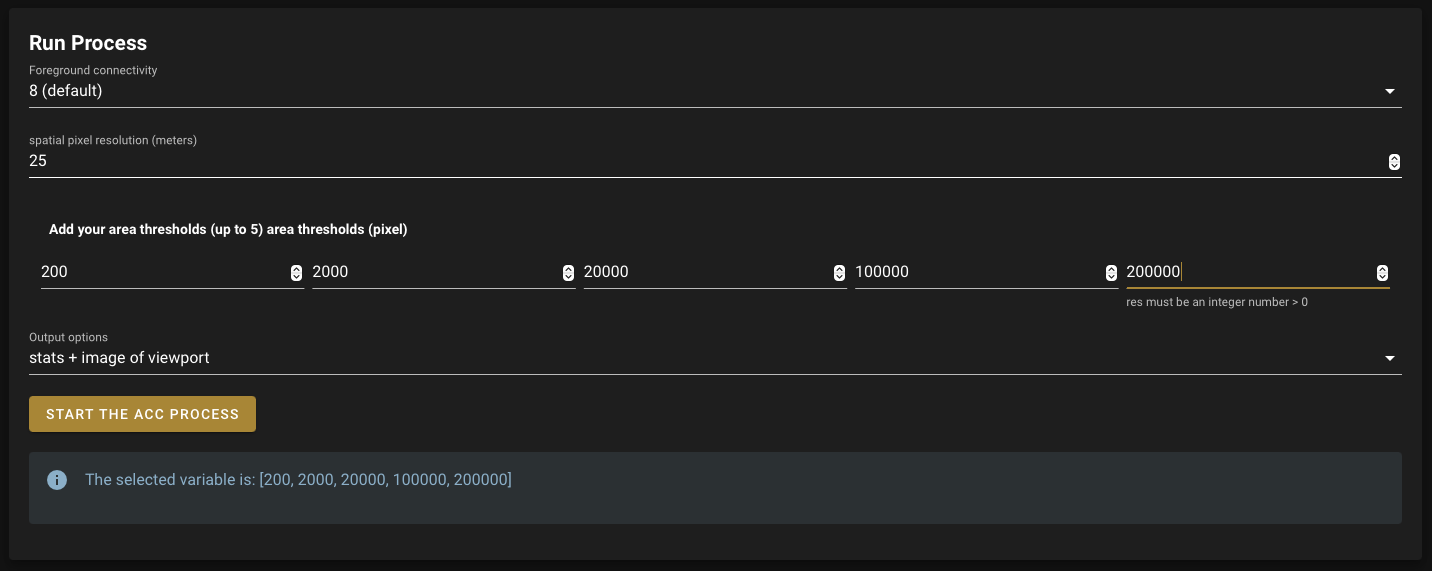
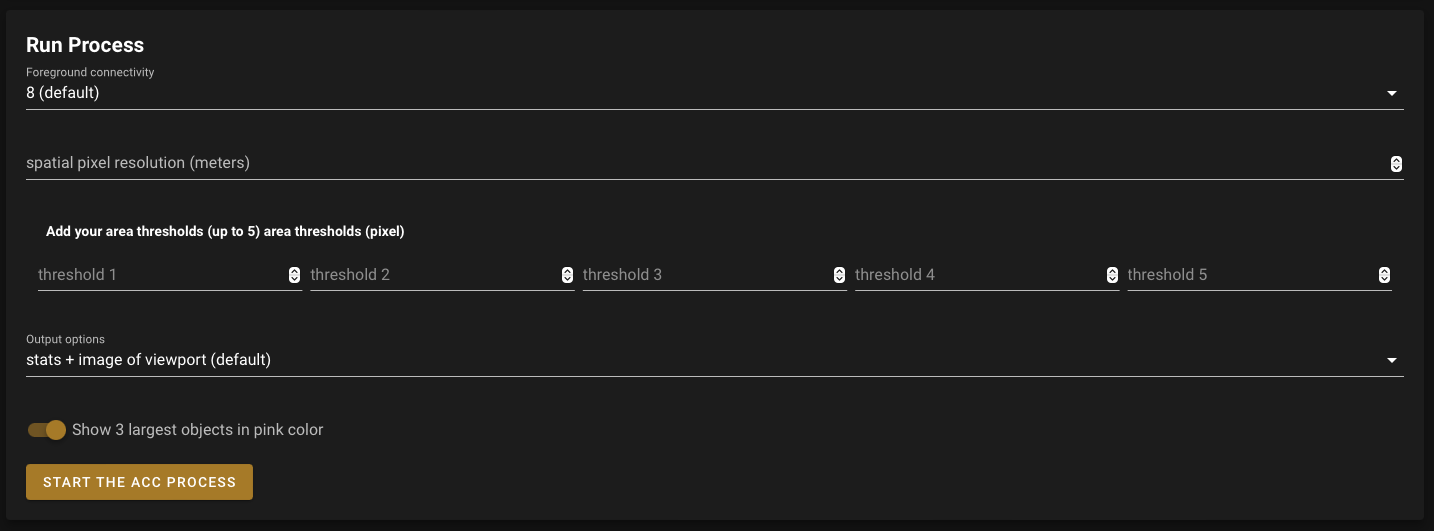
add new acc parameter

diff --git a/component/tile/acc_tile.py b/component/tile/acc_tile.py
@@ -34,13 +34,15 @@ class AccTile(GwbTile):
             items= cp.acc_options,
             v_model = cp.acc_options[0]['value']
         )
+        big_3_pink = v.Switch(label=cm.acc.big3pink, v_model=True)
         
         # bind to the 
         model \
             .bind(connectivity, 'connectivity') \
             .bind(res, 'res') \
             .bind(thresholds.save, 'thresholds') \
-            .bind(options, 'options')
+            .bind(options, 'options') \
+            .bind(big_3_pink, 'big_3_pink')
         
         # extra js behaviour 
         res.on_event('focusout', self._on_focus_out)
@@ -51,7 +53,8 @@ class AccTile(GwbTile):
                 connectivity,
                 res,
                 thresholds,
-                options
+                options,
+                big_3_pink
             ]
         )
     

diff --git a/component/model/acc_model.py b/component/model/acc_model.py
@@ -21,6 +21,7 @@ class AccModel(GWBModel):
     res = Any(None).tag(sync=True)
     thresholds = Any("[]").tag(sync=True)
     options = Any(cp.acc_options[0]['value']).tag(sync=True)
+    big_3_pink = Any(True).tag(sync=True)
     
     def __init__(self):
         
@@ -44,6 +45,7 @@ class AccModel(GWBModel):
                 self.res,
                 self.join_attr('thresholds'),
                 self.options,
+                int(self.big_3_pink)
             ])
     
     def get_params_list(self):

diff --git a/component/parameter/gwb.py b/component/parameter/gwb.py
@@ -1,5 +1,5 @@
 gwb = {
-    'acc':  {'command': 'GWB_ACC', 'folder': 'acc',  'offset': 23},
+    'acc':  {'command': 'GWB_ACC', 'folder': 'acc',  'offset': 25},
     'dist': {'command': 'GWB_DIST', 'folder': 'dist', 'offset': 17},
     'fad':  {'command': 'GWB_FAD', 'folder': 'fad',  'offset': 28},
     'frag': {'command': 'GWB_FRAG', 'folder': 'frag', 'offset': 32},
